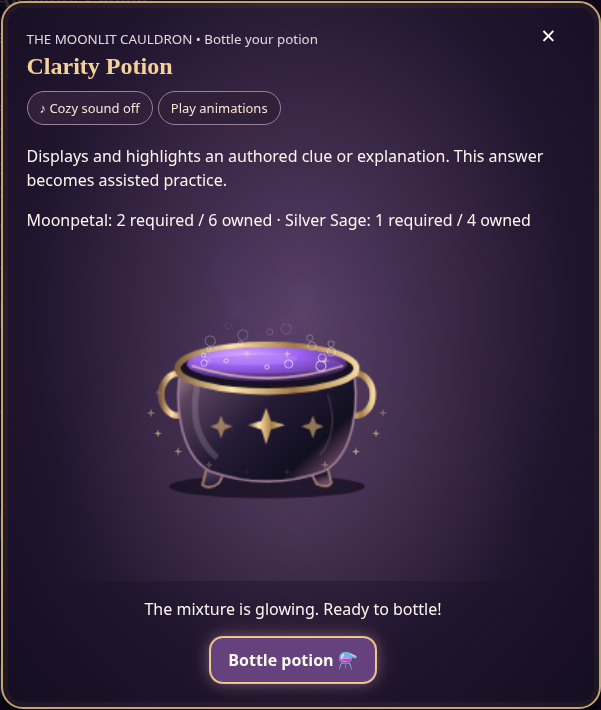
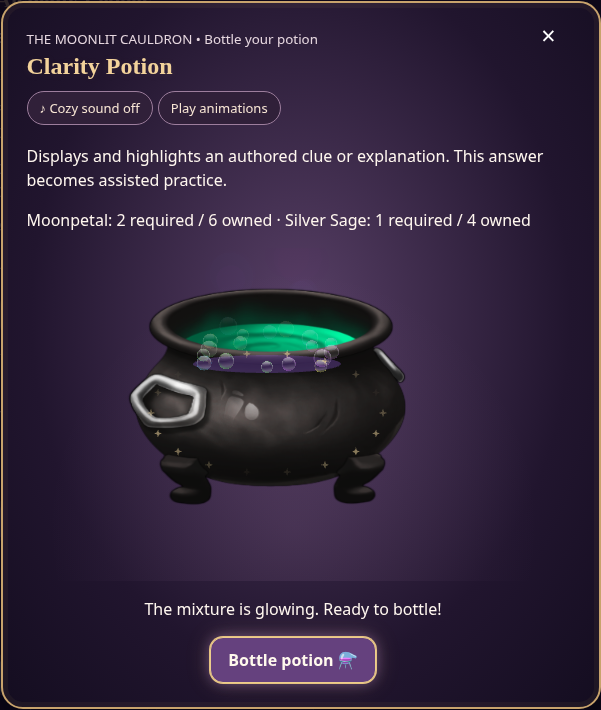
Record app-wide visual acceptance and D669 handoff coverage

Changed region(s): [[0.2097, 0.4028, 0.6889, 0.7127]]

diff --git a/docs/ENGINEERING_COMPLETION_2026-11-24.md b/docs/ENGINEERING_COMPLETION_2026-11-24.md
@@ -133,3 +133,11 @@ Implementation checks exposed two concrete presentation issues: recipe images we
 Validation before the final icon expansion: combined source gate passed with 1,068 locked/actual files, zero errors; full interactions, all three D669 content flows, all three alchemy workflows, all three brewing dialog flows and Sanctuary care/furniture/recovery passed locally. Merge-head CI passed all three Commons reviews, enchanted visual contrast, meeting, alchemy and Sanctuary checks; integration stopped at a stale expected old potion-image path, now updated to validate the requested new rendered images. Final canonical icon candidate: `2f6ad8b806efbaaf`; final asset, navigation and visual checks are in progress. PR #294 remains the release vehicle, and these new visual changes are not claimed live until its checks and publishing verification pass.
 
 Rollback: revert the focused icon/visual commits. No data reset or schema migration is involved. The targeted section-location question retirement and its existing save-safety recovery mechanism are preserved. Unverified preparation files remain outside the published app.
+
+### Final app-wide acceptance evidence
+
+At `2d42498` the final runtime asset key is `2f6ad8b806efbaaf`. All three local asset checks now pass, including actual lazy-loaded painted bottle images, named game controls and their new decorative icons. All 15 room navigation checks pass at 390/820/1366, with window/document listener counts unchanged (37/66), no overflow and no runtime errors. The full rendered-contrast suite passes 13 acceptance checks and 16 samples. App-wide captures cover Arcade cards, Journal, Vault, Focus, Trophies and the actual classroom tab flow at all three widths; first-room after screenshots are refreshed. The existing source-data, question rotation, Guardian state, reward receipts and save/recovery owners remain unchanged by this icon pass.
+
+`handoff-inventory.json` now includes the actual five-section D669 catalog, its lesson/sublesson/competency records and all seven raw source document statuses. Existing browser evidence confirms seven registered practice packs. Sections without complete supplied raw text remain a source-coverage limitation; no invented official course content is substituted.
+
+PR #294 contains the combined implementation and recovery notes. Its final CI and production status must be checked before describing this upgrade as live. Reverting the eventual merge commit with mainline parent 1 removes this visual/UI delta while preserving the main-branch consolidation work; no student save reset is required.
